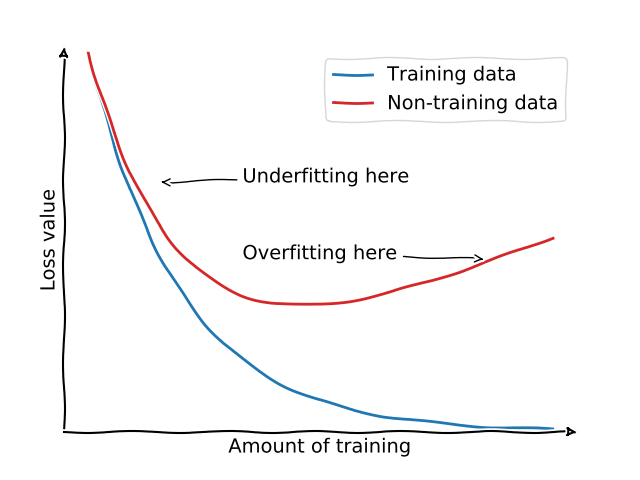
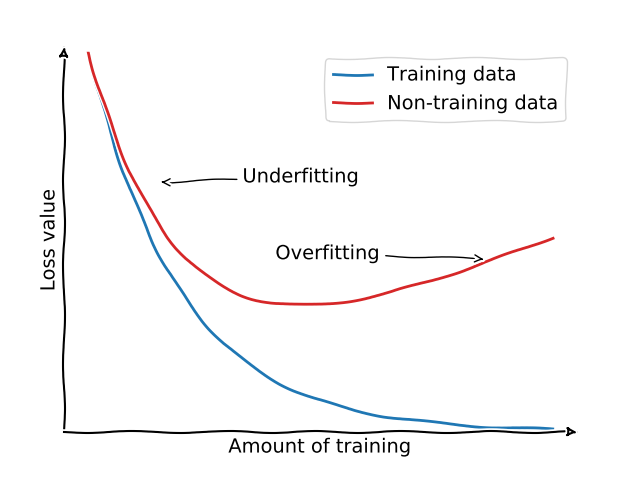
Remove here from picture

Changed region(s): [[0.375, 0.5, 0.7188, 0.5625], [0.5625, 0.3438, 0.6562, 0.375], [0.2812, 0.375, 0.3125, 0.4062]]

diff --git a/plots_and_images/my_plots/ML/overfitting_and_early_stopping/make_overtraining_plots.py b/plots_and_images/my_plots/ML/overfitting_and_early_stopping/make_overtraining_plots.py
@@ -90,12 +90,12 @@ with plt.xkcd():
     txt3.remove()
 
     txt4 = plt.annotate(
-         'Underfitting here',
+         'Underfitting',
          xy=(15, .65), arrowprops=dict(arrowstyle='->'), xytext=(33, .65))
 
     txt5 = plt.annotate(
-         'Overfitting here',
-         xy=(85, .45), arrowprops=dict(arrowstyle='->'), xytext=(33, .45))
+         'Overfitting',
+         xy=(85, .45), arrowprops=dict(arrowstyle='->'), xytext=(40, .45))
 
     fig.savefig(image_name.format(n_saves_counter))
     n_saves_counter+=1
